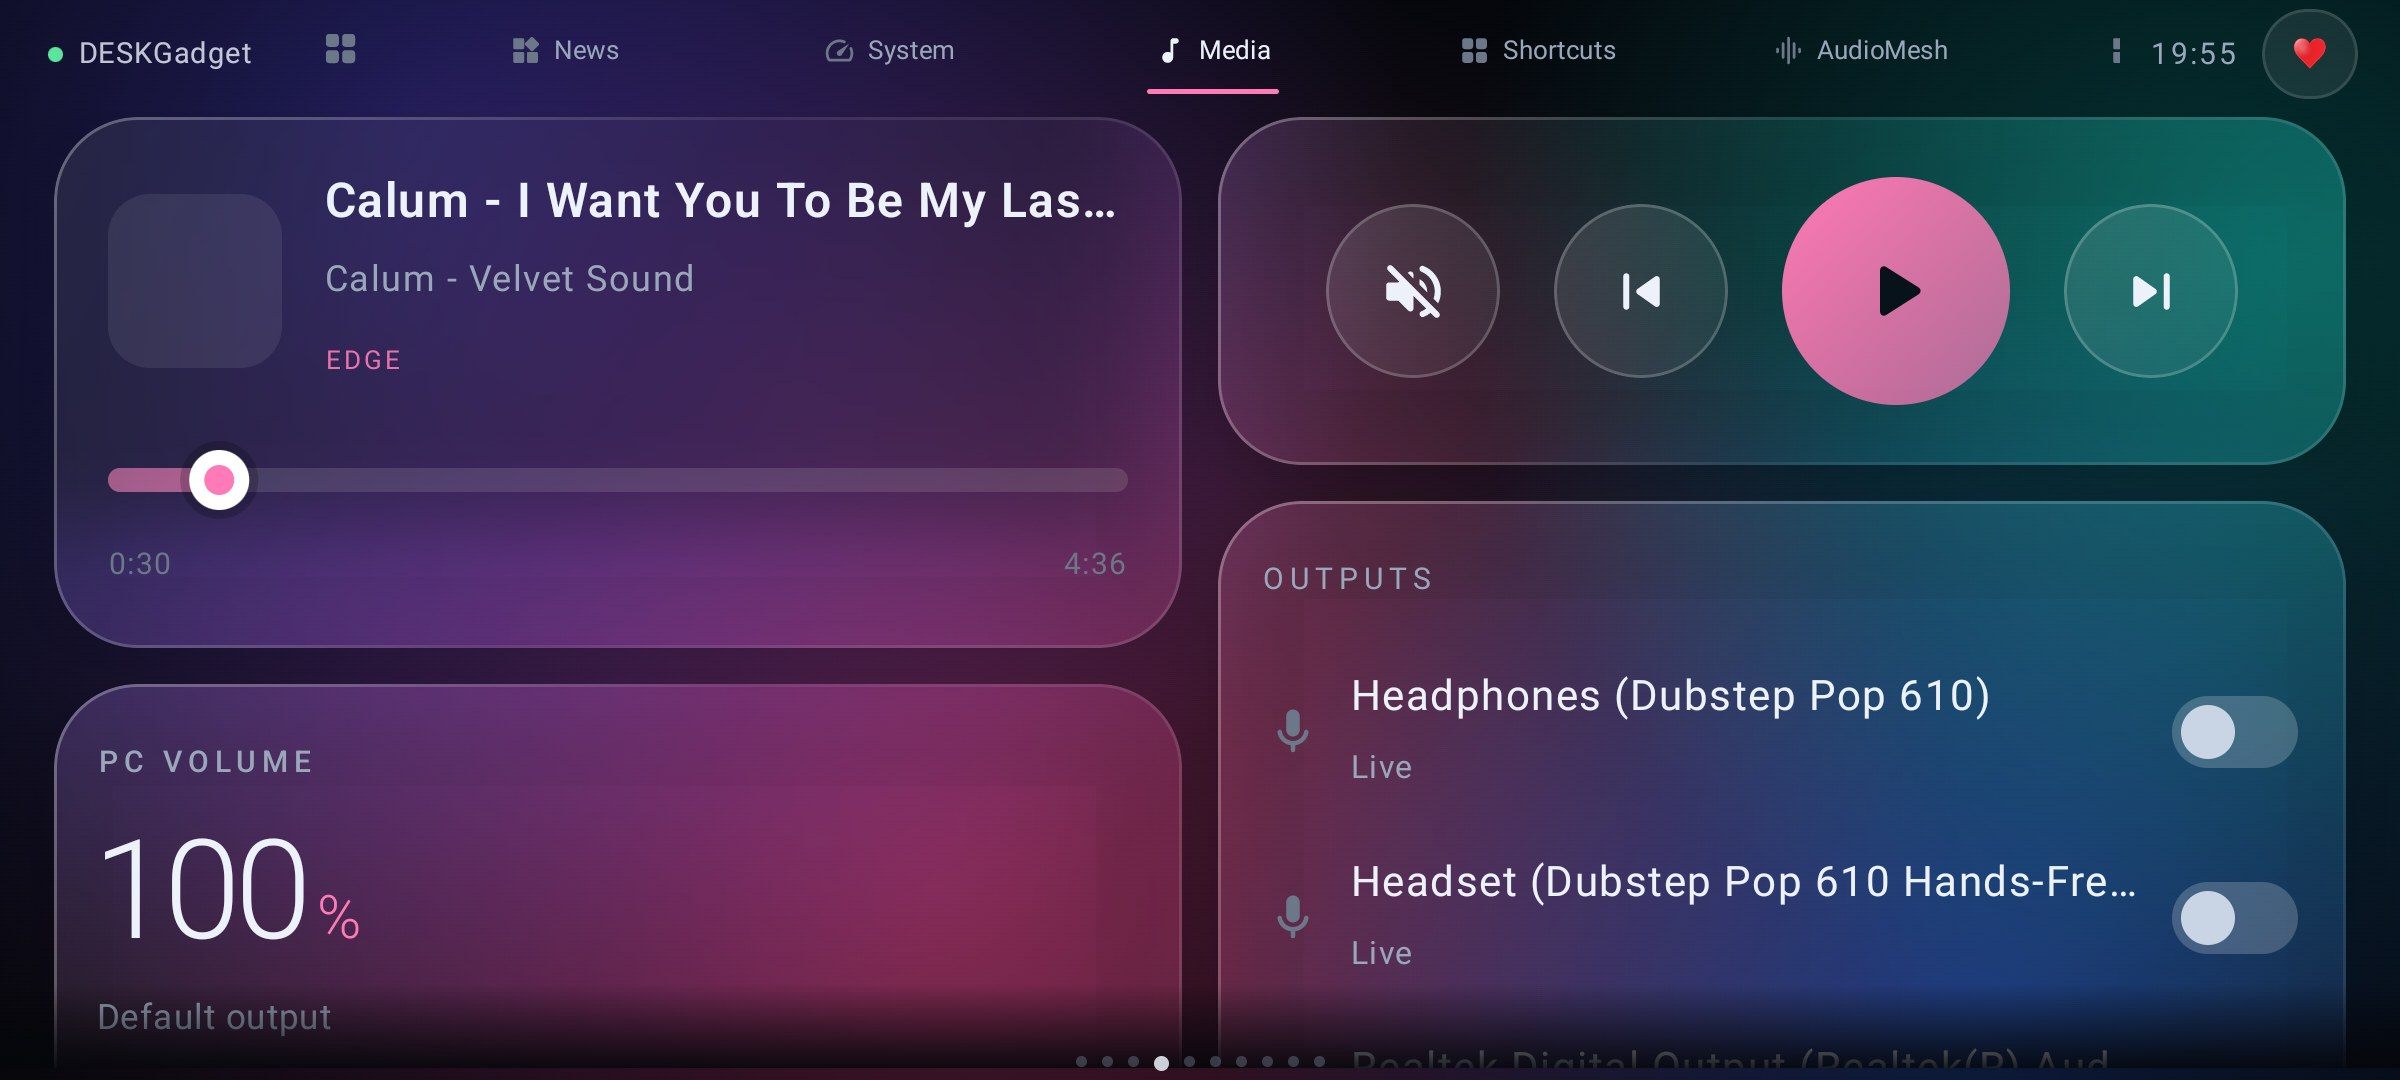
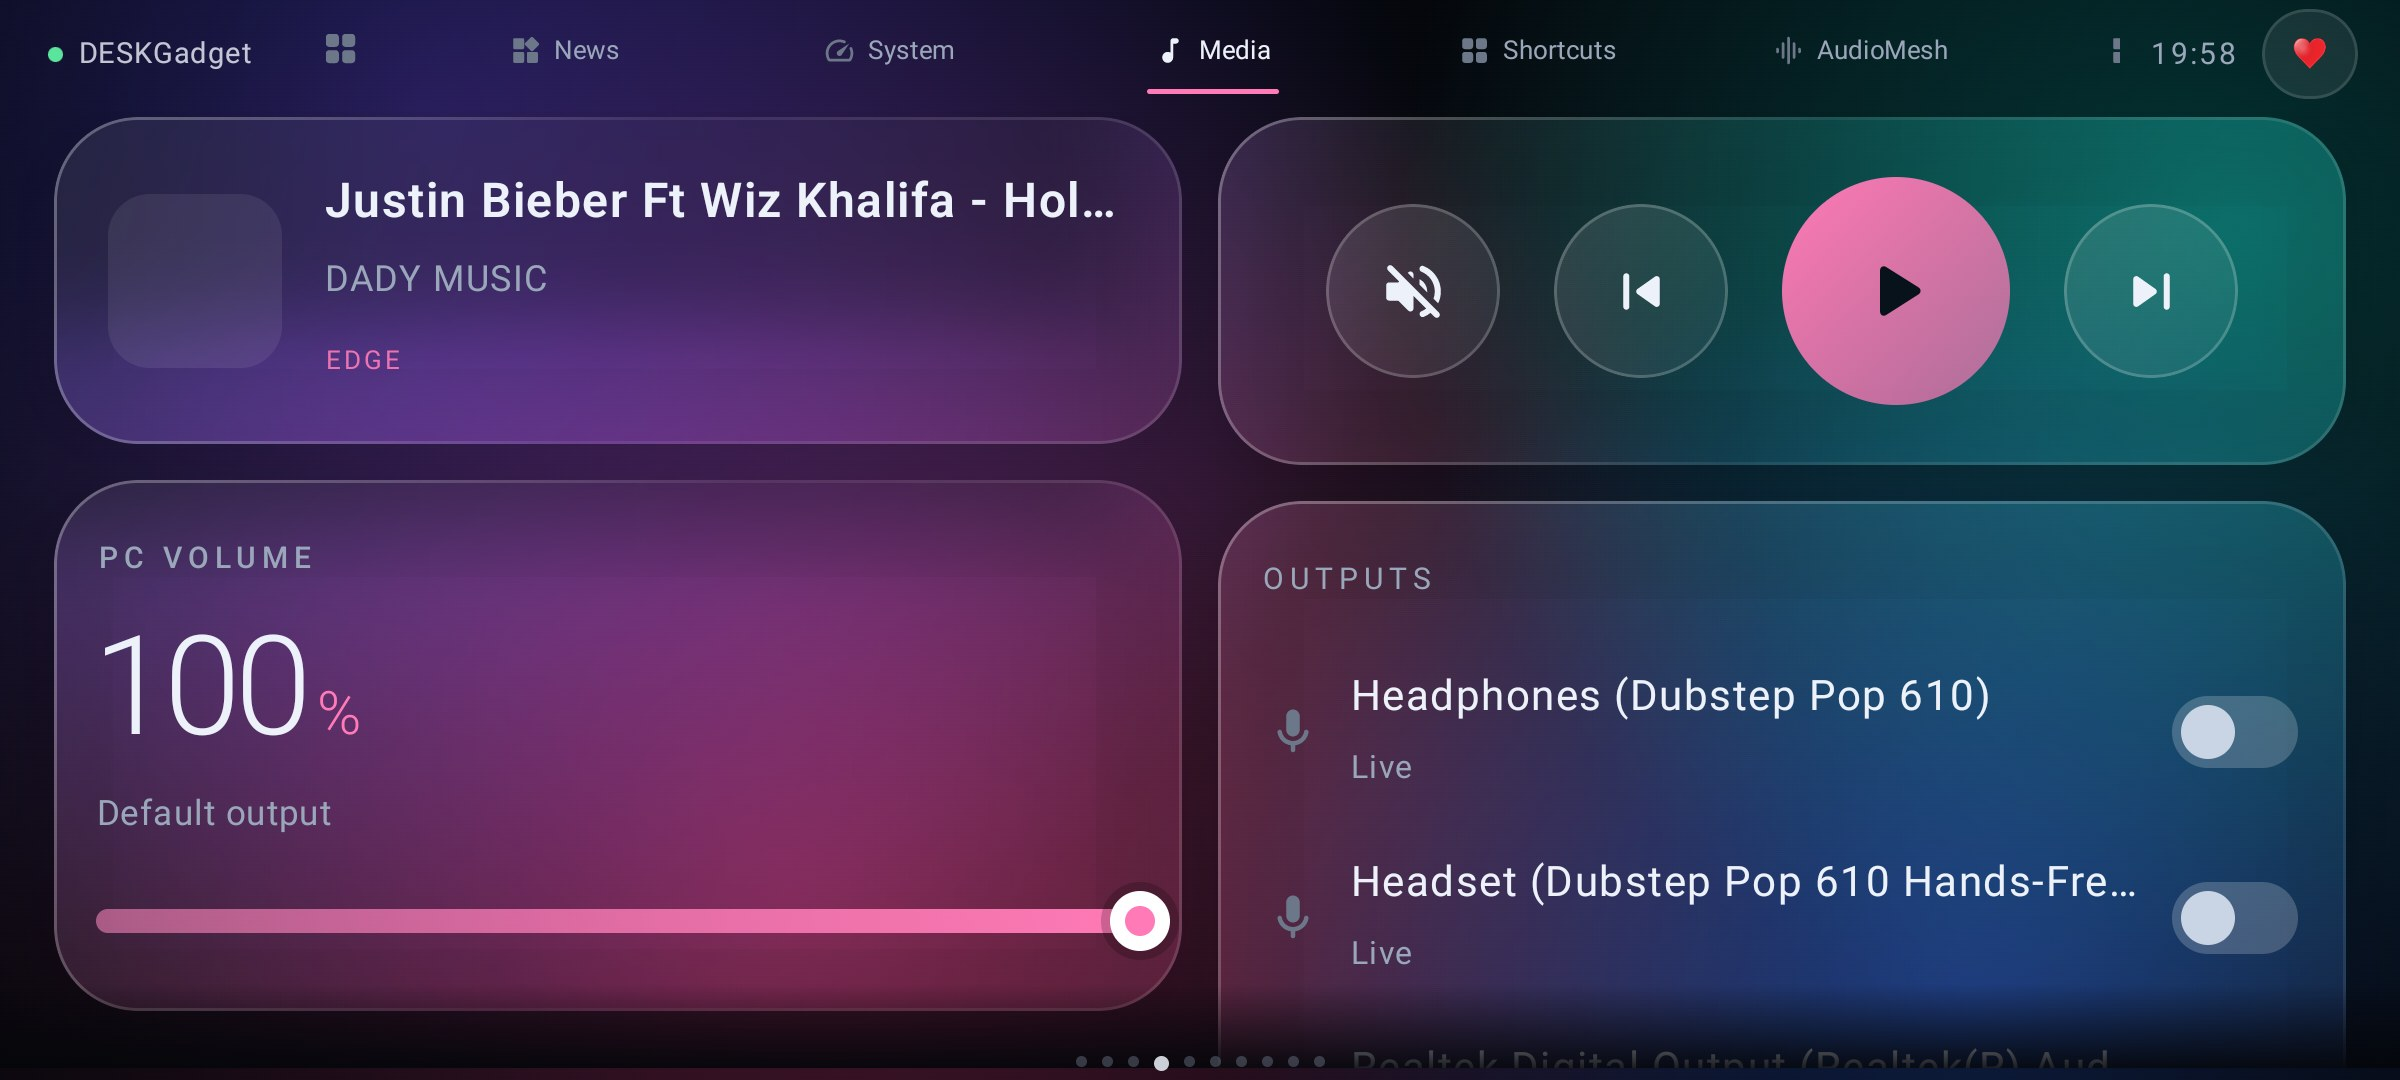
Media: build absolute artwork URLs for the phone

diff --git a/android/app/src/main/java/com/deskgadget/app/Blocks.kt b/android/app/src/main/java/com/deskgadget/app/Blocks.kt
@@ -104,7 +104,7 @@ fun BlockView(
         "slider" -> SliderCard(block, accent) { id, value ->
             onAction(id, JSONObject().put("value", value))
         }
-        "nowplaying" -> NowPlayingCard(block, accent) { seconds ->
+        "nowplaying" -> NowPlayingCard(block, accent, endpoint) { seconds ->
             onAction(block.str("action"), JSONObject().put("value", seconds))
         }
         "textinput" -> TextInputCard(block, accent) { action, text ->
@@ -901,11 +901,14 @@ private fun TextInputCard(
 private fun NowPlayingCard(
     block: JSONObject,
     accent: Color,
+    endpoint: String,
     onSeek: (Int) -> Unit,
 ) {
     val duration = block.num("duration", 0.0).toFloat()
     val position = block.num("position", 0.0).toFloat()
-    val artwork = block.str("artwork")
+    val rawArt = block.str("artwork")
+    // the server sends a root-relative path; Coil needs a full URL
+    val artwork = if (rawArt.startsWith("/")) endpoint.trimEnd('/') + rawArt else rawArt
 
     GlassPanel(
         Modifier.fillMaxWidth(),
